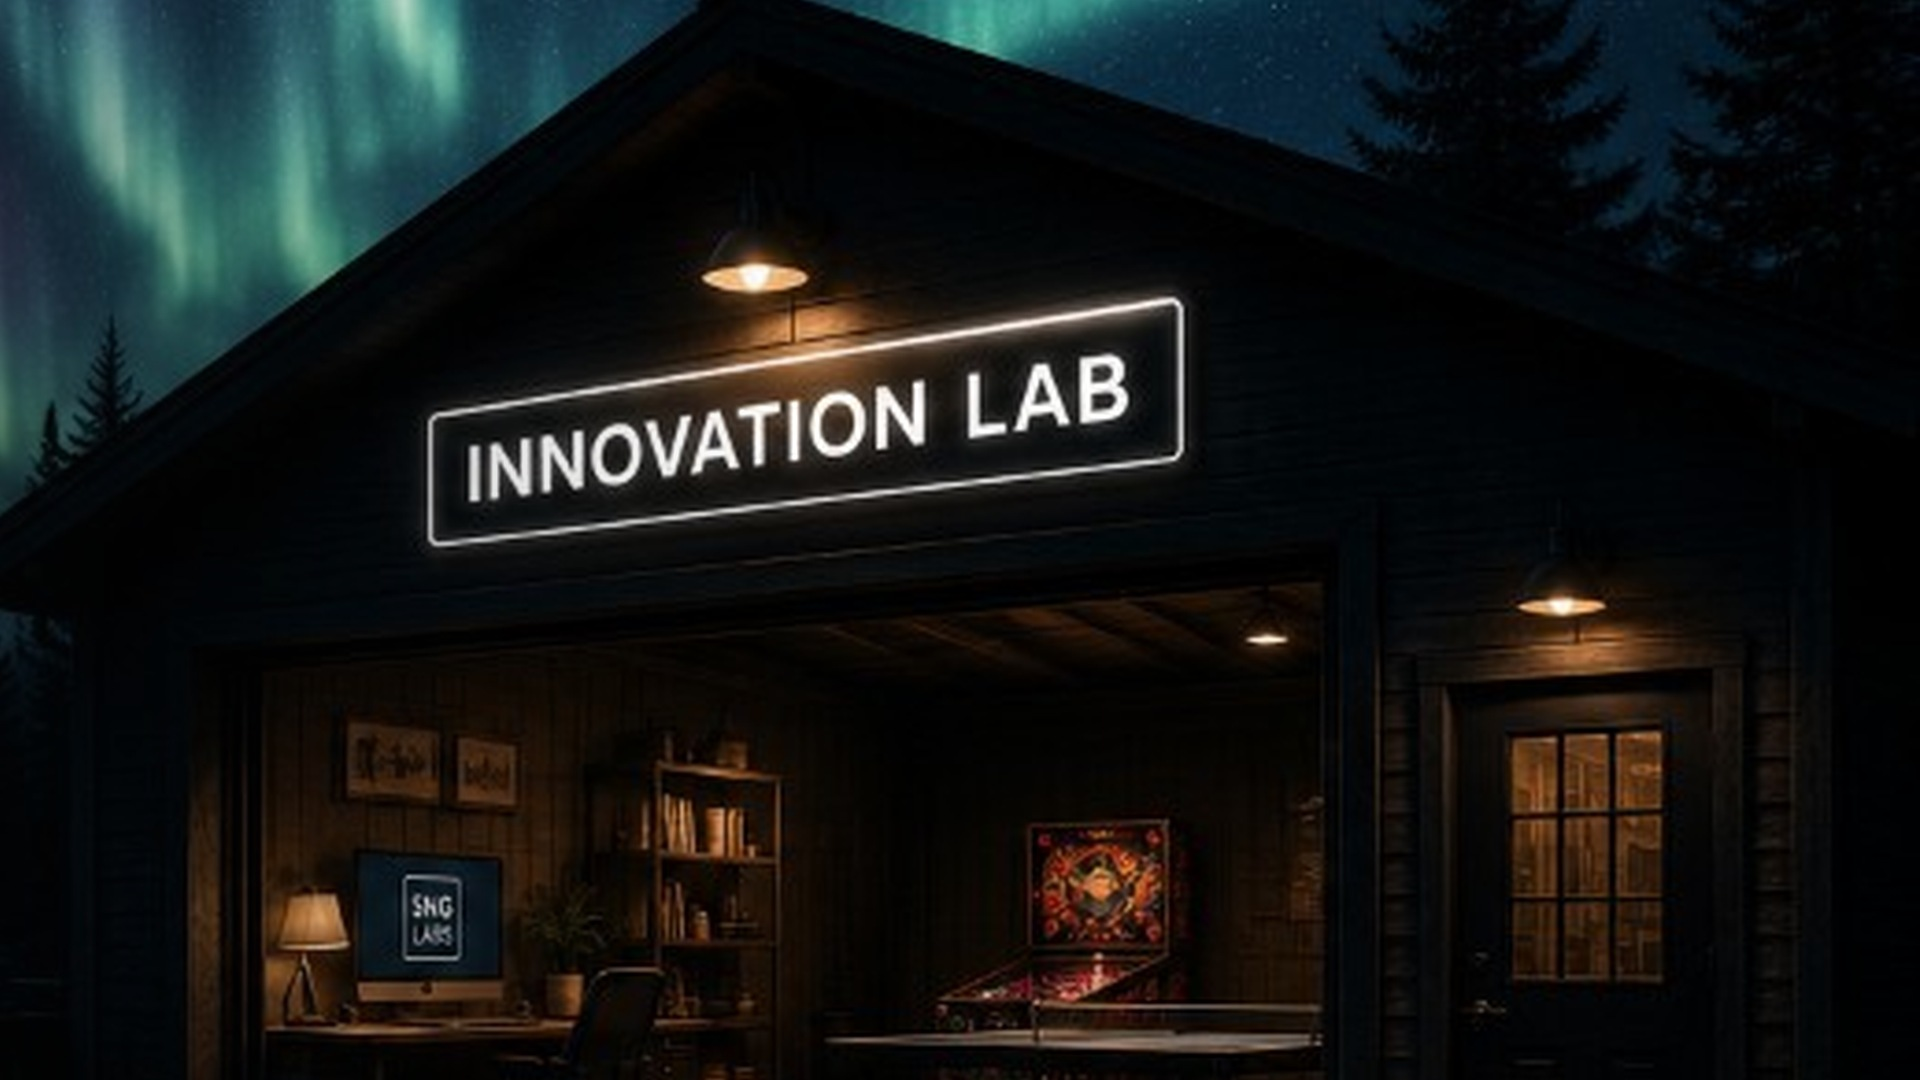
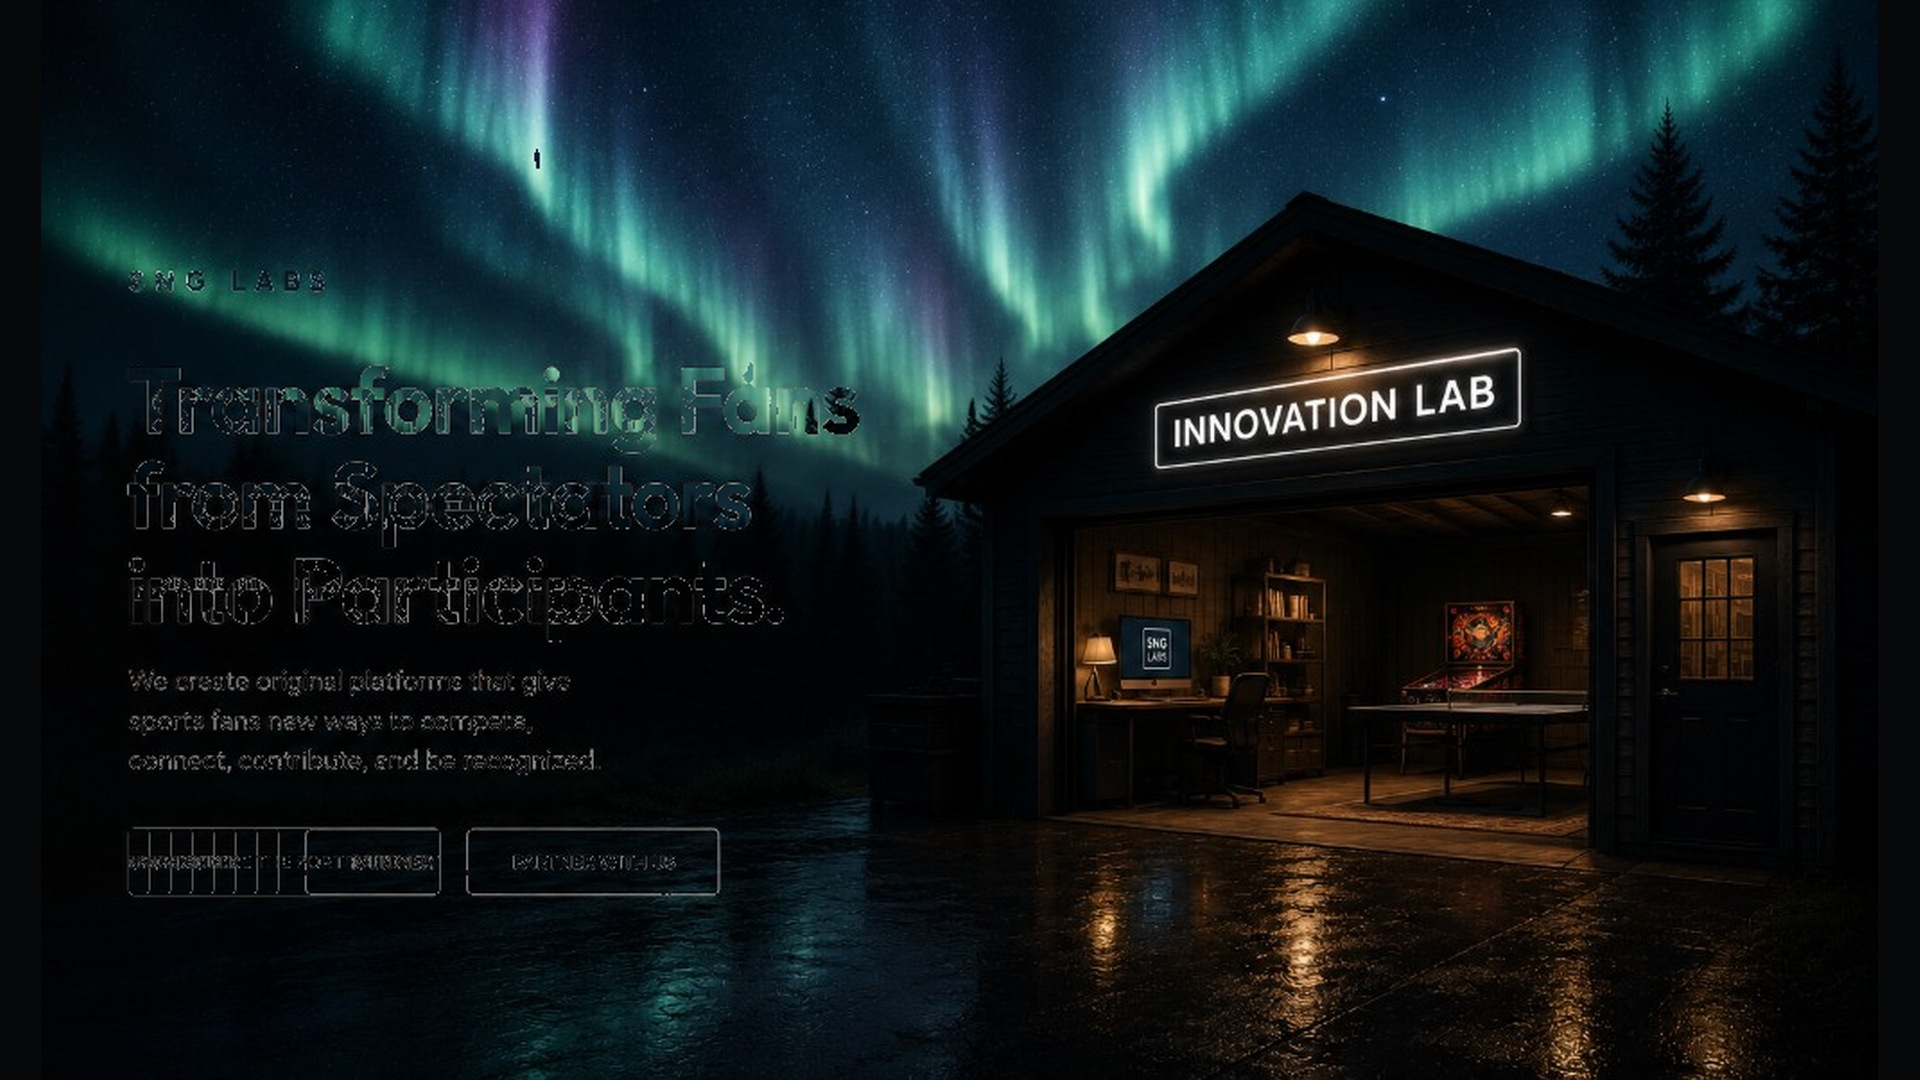
Refine Innovation Lab hero composition

diff --git a/components/sections/hero.tsx b/components/sections/hero.tsx
@@ -4,52 +4,72 @@ import { partnerHref, siteAssets } from "@/lib/site";
 
 export function HeroSection() {
   return (
-    <section
-      id="top"
-      className="relative isolate flex min-h-[calc(100svh-4.5rem)] items-end overflow-hidden md:min-h-[calc(100svh-4.75rem)] md:items-center"
-    >
-      <div className="absolute inset-0 -z-10">
-        <Image
-          src={siteAssets.innovationLabHero}
-          alt="SNG Labs Innovation Lab at night: an open garage workspace under an aurora-filled sky, with a glowing Innovation Lab sign, warm interior lighting, desk and computer, ping-pong table, and pinball machine."
-          fill
-          priority
-          sizes="100vw"
-          className="object-cover object-[68%_42%] sm:object-[72%_40%] md:object-[78%_45%] lg:object-[82%_48%]"
-        />
-        <div
-          aria-hidden="true"
-          className="absolute inset-0 bg-gradient-to-r from-background via-background/88 to-background/15 sm:via-background/80 sm:to-background/10 lg:via-background/72 lg:to-transparent"
-        />
-        <div
-          aria-hidden="true"
-          className="absolute inset-0 bg-gradient-to-t from-background via-background/35 to-transparent sm:via-background/20"
-        />
-        <div
-          aria-hidden="true"
-          className="absolute inset-x-0 bottom-0 h-28 bg-gradient-to-t from-background to-transparent md:h-36"
-        />
+    <section id="top" className="relative bg-background">
+      {/* Mobile: copy above the scene */}
+      <div className="relative z-10 px-6 pb-8 pt-14 sm:px-8 md:hidden">
+        <HeroCopy />
       </div>
 
-      <div className="relative z-10 mx-auto flex w-full max-w-6xl px-6 pb-20 pt-16 sm:px-8 sm:pb-24 sm:pt-20 lg:px-10 lg:pb-28 lg:pt-24">
-        <div className="max-w-xl lg:max-w-2xl">
-          <h1 className="animate-fade-up max-w-[14ch] font-display text-4xl font-semibold tracking-tight text-foreground sm:max-w-none sm:text-5xl md:text-6xl lg:text-[4.5rem] lg:leading-[1.02]">
-            <span className="block">Transforming Fans</span>
-            <span className="mt-1 block sm:mt-1.5">from Spectators</span>
-            <span className="mt-1 block sm:mt-1.5">into Participants.</span>
-          </h1>
-          <p className="animate-fade-up-delay-1 mt-8 max-w-[28ch] text-base leading-relaxed text-muted-strong sm:mt-10 sm:max-w-[30ch] sm:text-lg">
-            We create original platforms that give sports fans new ways to
-            compete, connect, contribute, and be recognized.
-          </p>
-          <div className="animate-fade-up-delay-2 mt-10 flex flex-col gap-3 sm:mt-12 sm:flex-row sm:items-center">
-            <ButtonLink href="#products">Explore the Portfolio</ButtonLink>
-            <ButtonLink href={partnerHref} variant="secondary">
-              Partner With Us
-            </ButtonLink>
+      {/* Scene frame — aspect-driven, capped so tall viewports don't force a zoom crop */}
+      <div className="relative w-full bg-background">
+        <div className="relative mx-auto w-full overflow-hidden bg-background">
+          <Image
+            src={siteAssets.innovationLabHero}
+            alt="SNG Labs Innovation Lab at night: an open garage workspace under an aurora-filled sky, with a glowing Innovation Lab sign, warm interior lighting, desk and computer, ping-pong table, pinball machine, and driveway reflections."
+            width={1920}
+            height={1080}
+            priority
+            sizes="100vw"
+            className="mx-auto h-auto w-full max-h-[calc(100svh-4.75rem)] object-contain object-center"
+          />
+
+          {/* Soft overlays — stronger on the left for copy, light overall */}
+          <div
+            aria-hidden="true"
+            className="pointer-events-none absolute inset-0 hidden md:block"
+          >
+            <div className="absolute inset-y-0 left-0 w-[48%] bg-gradient-to-r from-background/80 via-background/45 to-transparent lg:w-[42%] lg:from-background/72 lg:via-background/35" />
+            <div className="absolute inset-x-0 bottom-0 h-24 bg-gradient-to-t from-background via-background/50 to-transparent lg:h-28" />
+          </div>
+
+          {/* Desktop / tablet: live copy over left sky */}
+          <div className="pointer-events-none absolute inset-0 hidden items-center md:flex">
+            <div className="pointer-events-auto mx-auto w-full max-w-6xl px-8 lg:px-10">
+              <div className="max-w-[18.5rem] lg:max-w-[21rem] xl:max-w-[23rem]">
+                <HeroCopy />
+              </div>
+            </div>
           </div>
         </div>
+
+        {/* Mobile bottom fade under the contained scene */}
+        <div
+          aria-hidden="true"
+          className="pointer-events-none absolute inset-x-0 bottom-0 h-16 bg-gradient-to-t from-background to-transparent md:hidden"
+        />
       </div>
     </section>
+  );
+}
+
+function HeroCopy() {
+  return (
+    <>
+      <h1 className="animate-fade-up font-display text-4xl font-semibold tracking-tight text-foreground sm:text-5xl md:text-[2.85rem] md:leading-[1.05] lg:text-[3.35rem] xl:text-[3.75rem] xl:leading-[1.02]">
+        <span className="block">Transforming Fans</span>
+        <span className="mt-1 block sm:mt-1.5">from Spectators</span>
+        <span className="mt-1 block sm:mt-1.5">into Participants.</span>
+      </h1>
+      <p className="animate-fade-up-delay-1 mt-7 max-w-[28ch] text-base leading-relaxed text-muted-strong sm:mt-8 sm:text-lg md:mt-8 md:max-w-[26ch] md:text-[0.98rem] lg:text-base">
+        We create original platforms that give sports fans new ways to compete,
+        connect, contribute, and be recognized.
+      </p>
+      <div className="animate-fade-up-delay-2 mt-9 flex flex-col gap-3 sm:mt-10 sm:flex-row sm:items-center md:mt-10">
+        <ButtonLink href="#products">Explore the Portfolio</ButtonLink>
+        <ButtonLink href={partnerHref} variant="secondary">
+          Partner With Us
+        </ButtonLink>
+      </div>
+    </>
   );
 }